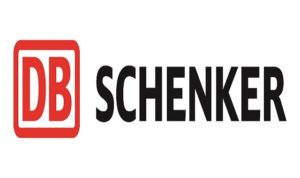
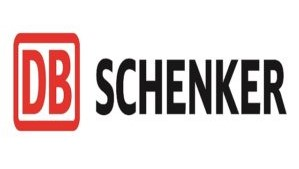
image resizing

Changed region(s): [[0.301, 0.3254, 0.9632, 0.7101], [0.0301, 0.1775, 0.2709, 0.7396]]

diff --git a/js/app.js b/js/app.js
@@ -192,6 +192,7 @@ const addCompanyTestimonials = (appendTo, companies) => {
     for (let company of companies) {
         const newLogo = document.createElement('img');
         newLogo.setAttribute('src', `${company.logo}`);
+        newLogo.setAttribute('alt', `Company logo for ${company.name}`)
         newLogo.classList.add('testimonial-logo');
         appendTo.append(newLogo);
     }

diff --git a/css/style.css b/css/style.css
@@ -312,5 +312,6 @@ h3.custom-quote {
 	position: absolute;
 	padding: 0 2rem;
 	opacity: 0.3;
-	max-width: 250px;
+	width: 250px;
+	height: 105px;
 }
